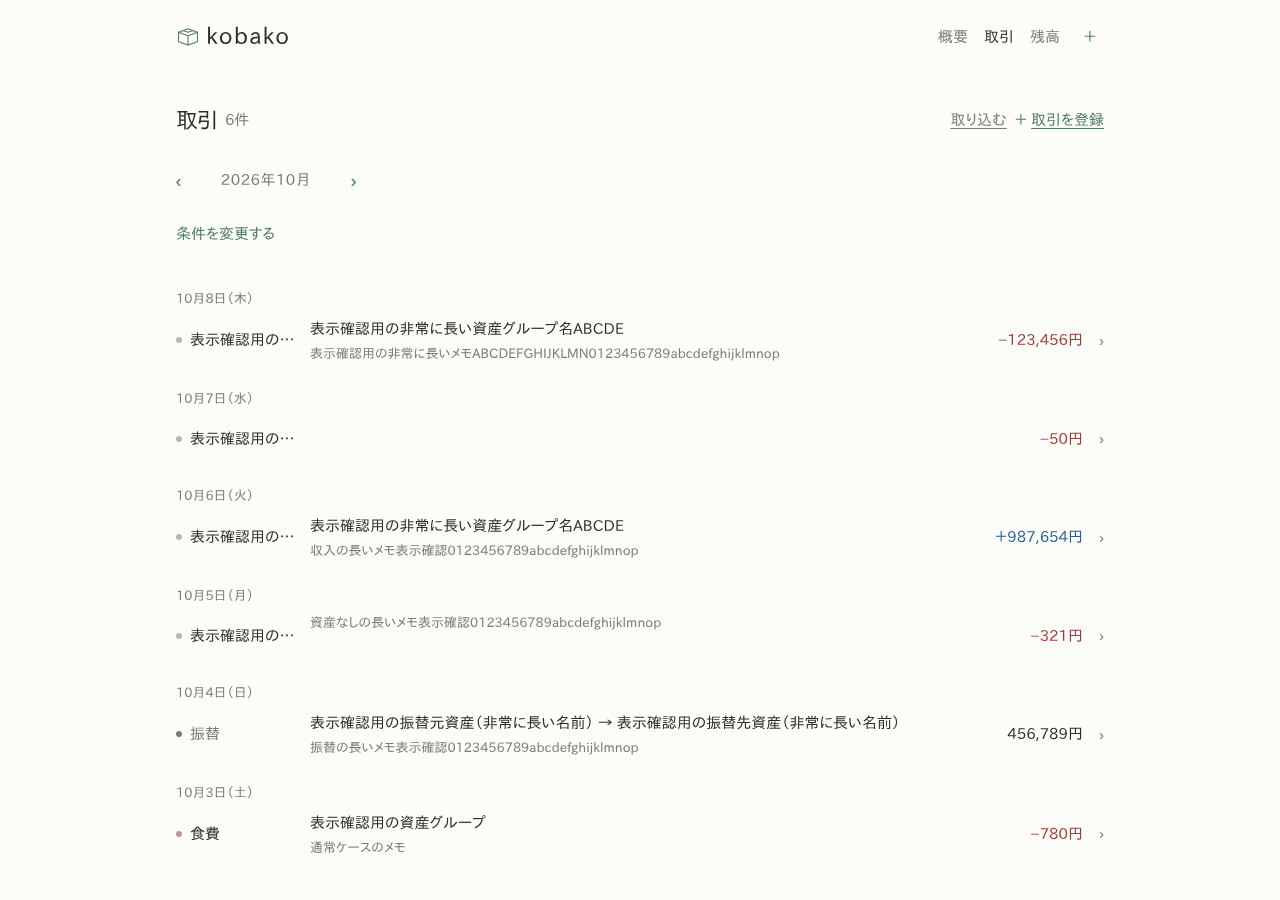
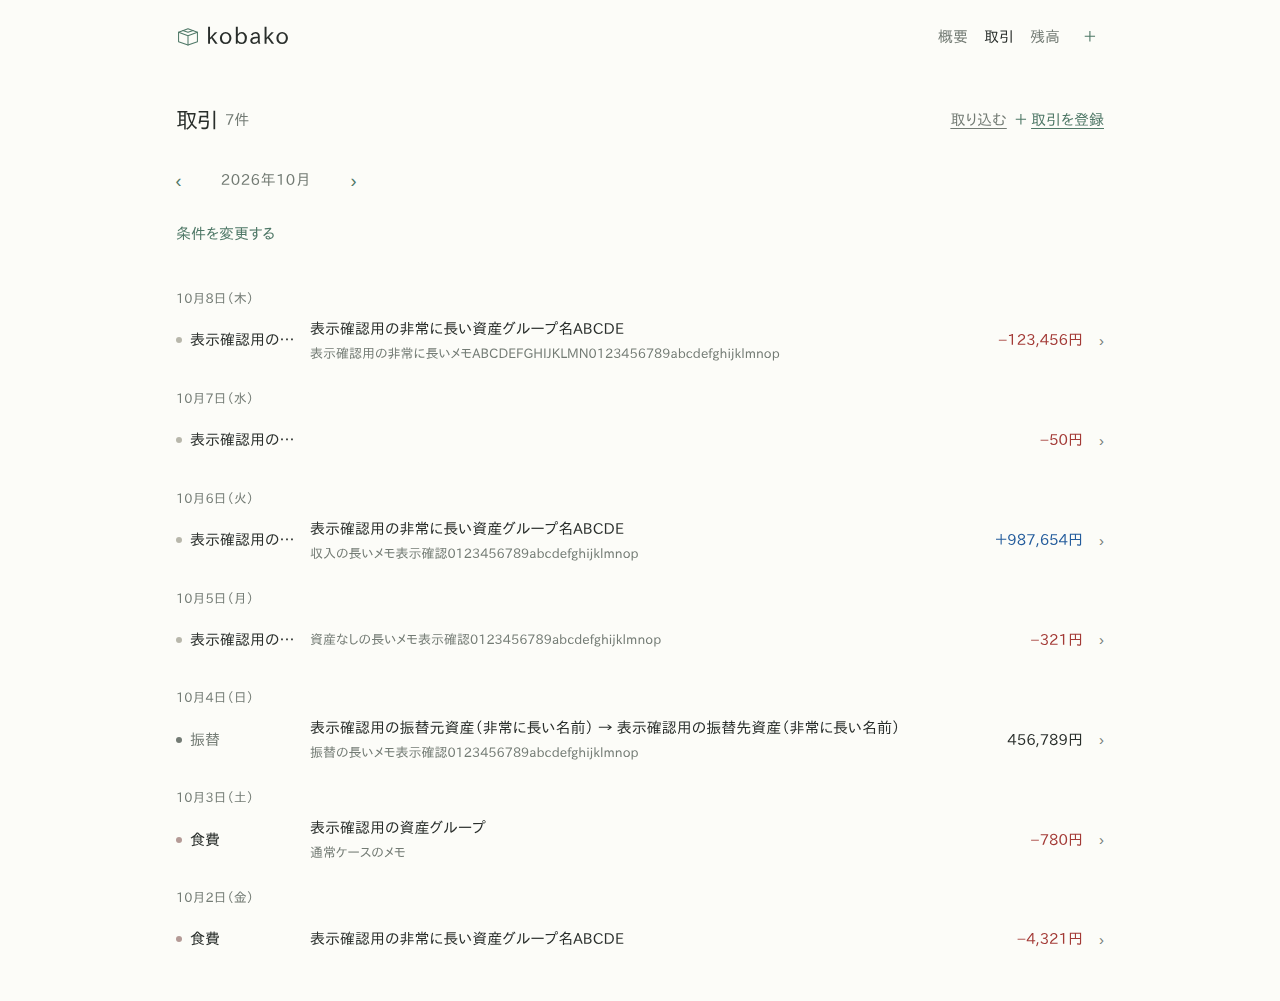
fix(web): center single transaction detail lines

diff --git a/apps/web/app/globals.css b/apps/web/app/globals.css
@@ -947,7 +947,7 @@ h3 {
   margin-top: var(--space-group);
 }
 
-.transaction-link {
+.transaction-list-full .transaction-link {
   display: grid;
   grid-template-columns: 6px minmax(0, clamp(4rem, 18vw, 7rem)) minmax(0, 1fr) max-content 13px;
   align-items: start;
@@ -958,23 +958,45 @@ h3 {
   text-decoration: none;
 }
 
-.transaction-link > .category-dot {
+.transaction-list-full .transaction-link > .category-dot {
   align-self: center;
   margin-top: 0;
 }
 
-.transaction-link > .record-amount,
-.transaction-link > .row-affordance {
+.transaction-list-full .transaction-link > .record-amount,
+.transaction-list-full .transaction-link > .row-affordance {
   align-self: center;
 }
 
-.transaction-main {
+.transaction-list-full .transaction-main {
+  --transaction-asset-line-height: calc(var(--text-body) * var(--leading-body));
+  --transaction-memo-line-height: calc(var(--text-small) * var(--leading-meta));
   display: grid;
+  grid-template-rows:
+    minmax(0, var(--transaction-asset-line-height))
+    minmax(0, var(--transaction-memo-line-height));
   min-width: 0;
+  min-height: calc(
+    var(--transaction-asset-line-height) + var(--space-within) + var(--transaction-memo-line-height)
+  );
   gap: var(--space-within);
 }
 
-.transaction-category {
+.transaction-list-full .transaction-main > :only-child {
+  grid-row: 1 / -1;
+  align-self: center;
+}
+
+.transaction-list-full .transaction-main-transfer {
+  grid-template-rows: auto auto;
+  min-height: 0;
+}
+
+.transaction-list-full .transaction-main-transfer > :only-child {
+  grid-row: auto;
+}
+
+.transaction-list-full .transaction-category {
   align-self: center;
   min-width: 0;
   overflow: hidden;
@@ -985,7 +1007,7 @@ h3 {
   white-space: nowrap;
 }
 
-.transaction-asset-group {
+.transaction-list-full .transaction-asset-group {
   min-width: 0;
   overflow: hidden;
   font-size: var(--text-body);
@@ -994,11 +1016,11 @@ h3 {
   white-space: nowrap;
 }
 
-.transfer-type {
+.transaction-list-full .transfer-type {
   color: var(--muted);
 }
 
-.transfer-category {
+.transaction-list-full .transfer-category {
   display: flex;
   align-items: baseline;
   flex-wrap: wrap;
@@ -1010,14 +1032,14 @@ h3 {
   white-space: normal;
 }
 
-.transfer-account {
+.transaction-list-full .transfer-account {
   min-width: 0;
   overflow-wrap: anywhere;
   text-wrap: pretty;
   white-space: normal;
 }
 
-.transfer-destination {
+.transaction-list-full .transfer-destination {
   display: inline-flex;
   flex: 1 1 auto;
   min-width: 0;
@@ -1026,11 +1048,11 @@ h3 {
   gap: var(--space-within);
 }
 
-.transfer-arrow {
+.transaction-list-full .transfer-arrow {
   flex: 0 0 auto;
 }
 
-.transaction-memo {
+.transaction-list-full .transaction-memo {
   min-width: 0;
   overflow: hidden;
   color: var(--muted);
@@ -1045,7 +1067,7 @@ h3 {
   text-wrap: pretty;
 }
 
-.row-affordance {
+.transaction-list-full .row-affordance {
   color: var(--muted);
   font-size: var(--text-body);
   line-height: 1;

diff --git a/apps/web/e2e/ledger.spec.ts b/apps/web/e2e/ledger.spec.ts
@@ -472,6 +472,35 @@ test('keeps shared chrome aligned across viewports and wraps long content', asyn
       }
       await assertNoHorizontalOverflow();
       await expect(page.locator('.transaction-memo').filter({ hasText: memo })).toBeVisible();
+      const layoutRow = page.locator('.transaction-link').filter({ hasText: memo });
+      const detailGeometry = await layoutRow.evaluate((row) => {
+        const box = (selector: string) => {
+          const element = row.querySelector<HTMLElement>(selector);
+          const bounds = element?.getBoundingClientRect();
+          return bounds
+            ? { center: bounds.y + bounds.height / 2, height: bounds.height }
+            : undefined;
+        };
+        const main = box('.transaction-main');
+        const memoBox = box('.transaction-memo');
+        const amount = box('.record-amount');
+        return {
+          main,
+          memo: memoBox,
+          amount,
+          assetGroupPresent: row.querySelector('.transaction-asset-group') !== null,
+        };
+      });
+      expect(detailGeometry.assetGroupPresent).toBe(false);
+      expect(detailGeometry.main).toBeDefined();
+      expect(detailGeometry.memo).toBeDefined();
+      expect(detailGeometry.amount).toBeDefined();
+      expect(
+        Math.abs(detailGeometry.memo!.center - detailGeometry.main!.center),
+      ).toBeLessThanOrEqual(1);
+      expect(
+        Math.abs(detailGeometry.amount!.center - detailGeometry.main!.center),
+      ).toBeLessThanOrEqual(1);
 
       await page.goto(`/transactions?month=${month}&type=expense&category=${categoryId}`);
       await expect(page.locator('.filter-summary')).toContainText(categoryName);

diff --git a/apps/web/app/transactions/transfer-row.tsx b/apps/web/app/transactions/transfer-row.tsx
@@ -28,7 +28,7 @@ export function TransferRow({
       <Link className="transaction-link" href={editHref} prefetch={false} aria-label={label}>
         <span className="category-dot transfer-dot" aria-hidden="true" />
         <span className="transaction-category transfer-type">振替</span>
-        <span className="transaction-main">
+        <span className="transaction-main transaction-main-transfer">
           <span className="transfer-category">
             <span className="transfer-account">{transfer.fromAccountName}</span>
             <span className="transfer-destination">
